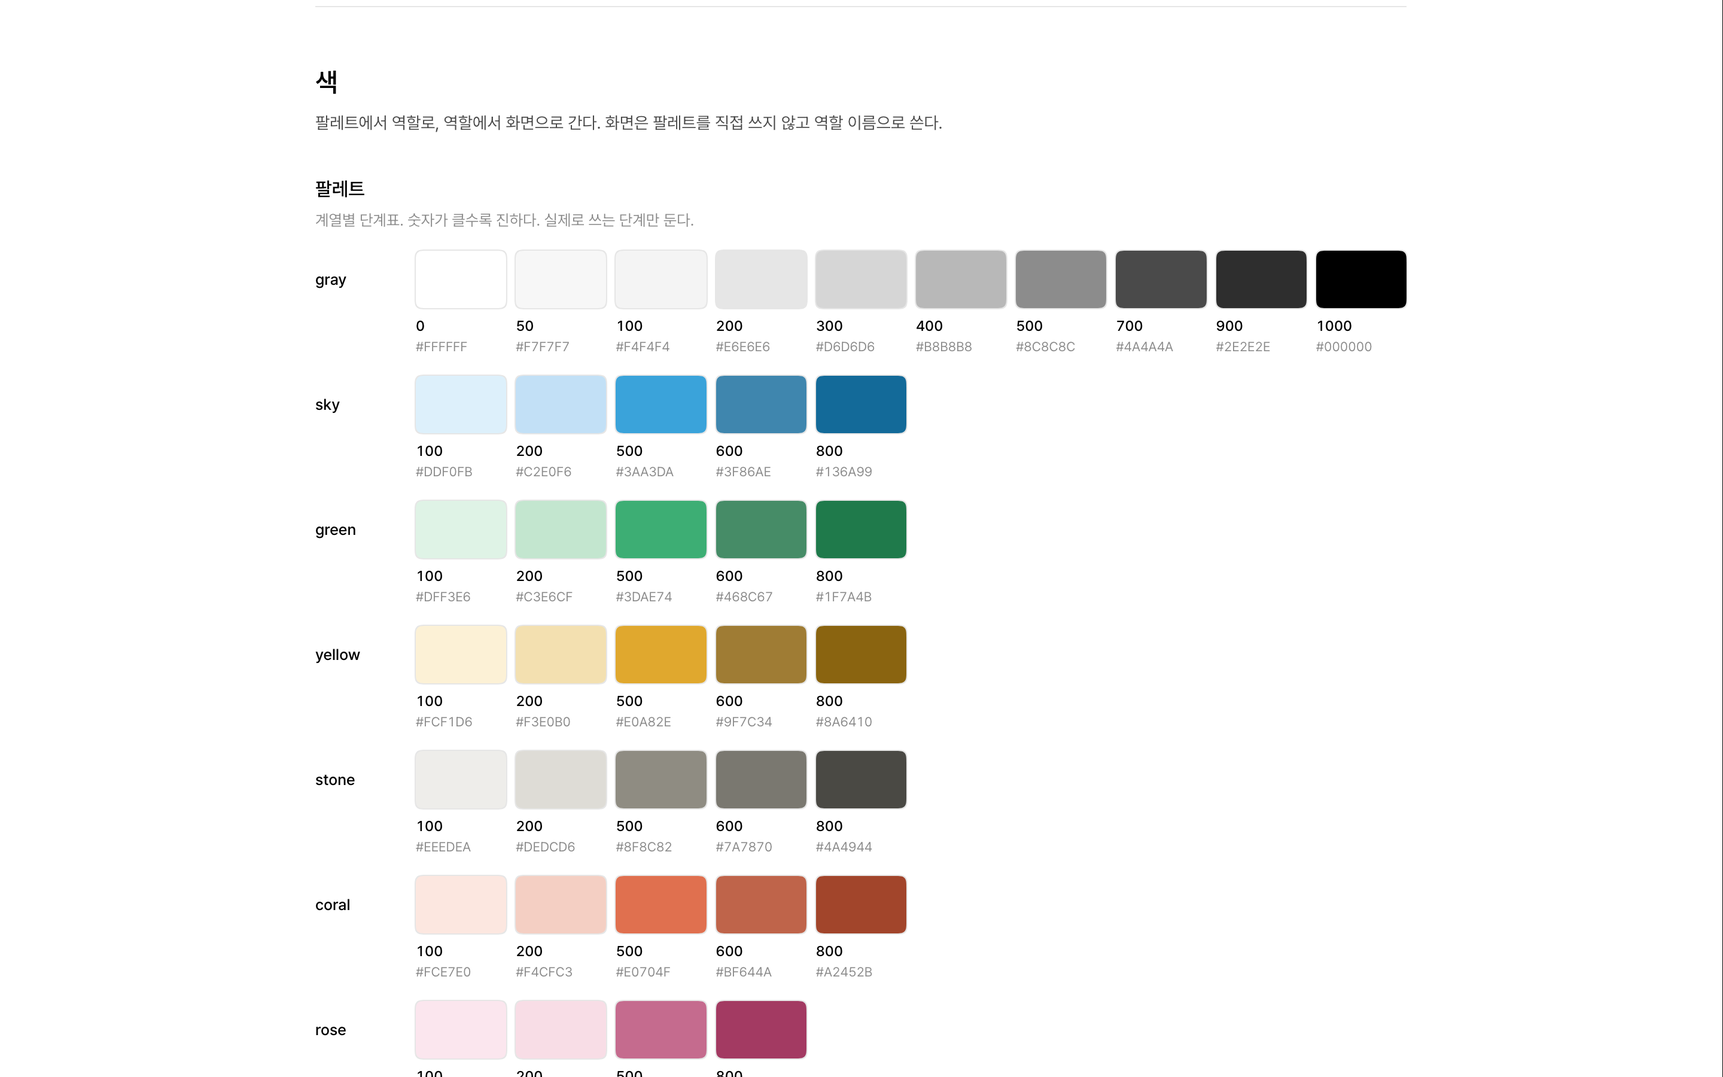
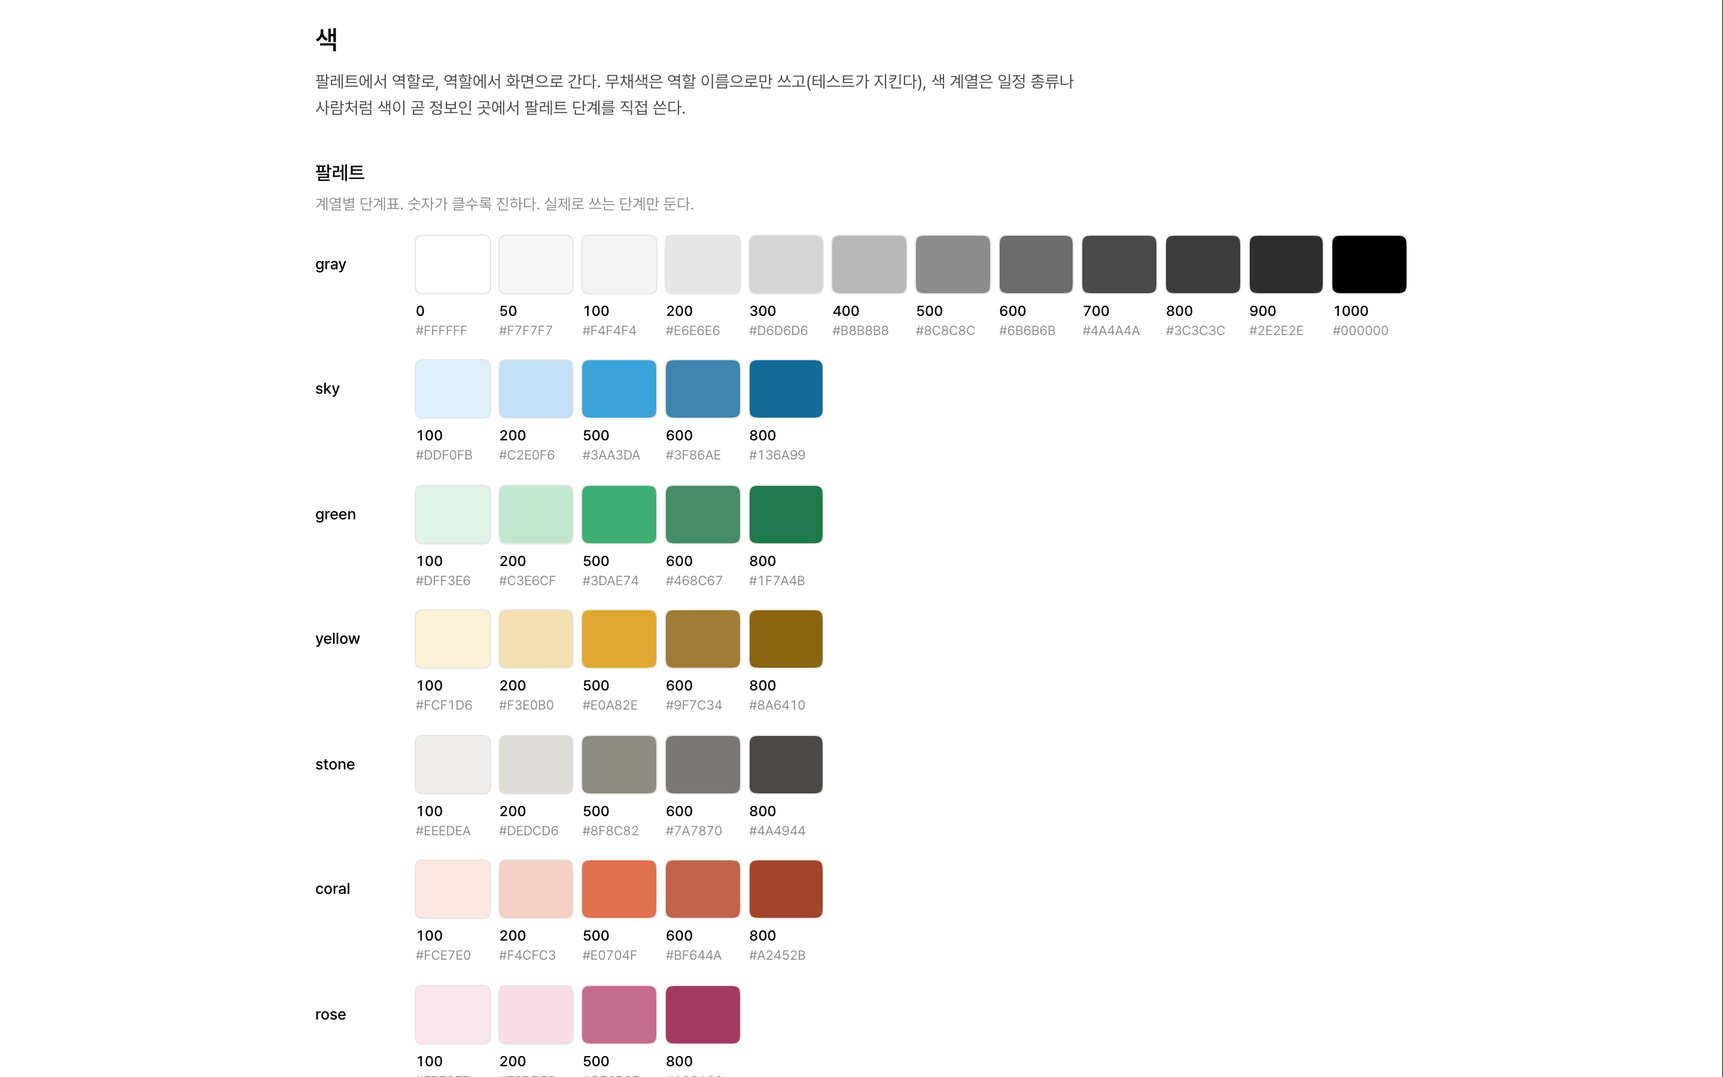
docs: 디자인 시스템 절을 측정값과 엄격 대조 결과로 고쳐 쓰기
전후 수치를 측정 스크립트의 출력으로 바꾸고, 화면이 달라진 정도를 화면별 표로 적는다. 옮기지 않은 버튼과 만들지 않은 컴포넌트, 보조 글자의 대비 미달, SEED에서 따른 이름 관례를 그대로 적는다. 설계 문서에는 구현 결과와 다른 점을 덧붙인다.

diff --git a/README.md b/README.md
@@ -182,39 +182,41 @@ npm run dev        # http://localhost:3000
 </p>
 
 화면을 먼저 만들고 디자인 시스템은 나중에 올렸습니다. 그때 화면의 값은 흩어져 있었습니다.
-같은 검정 주 버튼이 클래스 조합 12종으로 쓰였고, 글자 크기는 10.5px, 11.5px 같은 값을 포함해 18종이었습니다.
+검정 면을 쓰는 누르는 요소가 클래스 조합 12종으로 흩어져 있었고, 글자 크기는 10.5px, 11.5px 같은 값을 포함해 18종이었습니다.
 값과 변형을 한 곳에서 정의하고, 화면은 그것을 고르기만 하도록 옮겼습니다.
 
 ### 원칙
 
 - **명세가 원천입니다.** 색, 글자, 모서리, 그림자, 모션의 값은 `src/shared/tokens/spec` 한 곳에만 있습니다.
   Tailwind 테마 CSS는 거기서 생성하고(`npm run tokens:generate`), 생성물은 직접 고치지 않습니다.
-- **검정이 주 행동입니다.** 화면에서 가장 진한 것이 지금 누를 것입니다.
+- **검정은 주 행동과 선택에만 씁니다.** 화면에서 가장 진한 것은 지금 누를 것이거나 지금 고른 것입니다.
 - **색은 정보에만 씁니다.** 일정 종류, 사람, 경고, 새 알림처럼 구분해야 할 것에만 색이 있습니다. 버튼과 선택은 무채색입니다.
 - **변형은 고르는 것입니다.** 버튼의 종류와 크기는 조합표에 정의돼 있고, 화면은 `variant`와 `size`만 고릅니다.
-- **지켜야 할 것은 검사합니다.** 대비, 생성물의 최신 여부, 화면 코드의 임의값을 테스트가 봅니다.
+- **지켜야 할 것은 검사합니다.** 대비, 생성물의 최신 여부, 화면 코드의 임의값과 테마에 없는 클래스를 테스트가 봅니다.
 
 ### 토큰
 
-색은 세 층으로 쌓습니다. 화면은 팔레트를 직접 쓰지 않고 역할 이름으로 씁니다.
+색은 세 층으로 쌓습니다. 무채색은 화면에서 역할 이름으로만 쓰고, 테스트가 이를 지킵니다.
+색 계열은 색이 곧 정보인 곳에서 팔레트 단계를 직접 씁니다.
 
 | 층 | 예 | 화면에서 쓰는 모습 |
 | --- | --- | --- |
-| 팔레트 | `gray-1000`, `sky-100`, `coral-800` | 쓰지 않음 |
-| 역할 | 글자 `strong · default · muted`, 바탕 `page · subtle · ink`, 선 `default · strong` | `text-strong`, `bg-ink`, `border-default` |
+| 팔레트 | `gray-1000`, `sky-100`, `coral-800` | 무채색은 직접 쓰지 않음. 색 계열은 안내 배지, 제안 카드, 완료·스캔 화면의 배경에서 직접 (`bg-sky-100`) |
+| 역할 | 글자 `strong · default · muted · faint`, 바탕 `page · faint · subtle · ink`, 선 `default · strong · page` | `text-strong`, `bg-ink`, `ring-page` |
 | 일정 종류, 사람 | 회의는 하늘, 집중은 초록, 점심은 노랑, 휴가는 스톤, 외근은 코랄 | `KIND_COLOR.meeting.bg` |
 
 그 밖의 토큰은 다음과 같습니다.
 
 | 토큰 | 단계 |
 | --- | --- |
-| 글자 | 크기와 줄 높이를 묶은 13단계 (`text-caption` … `text-display`) |
+| 글자 | 크기와 줄 높이를 묶은 13단계 (`text-micro` … `text-display`) |
 | 굵기 | 7단계. 단계를 통째로 한 칸씩 가볍게 잡았습니다(300~620) |
 | 모서리 | 6단계와 원형 (`rounded-r1` … `rounded-r6`) |
 | 그림자 | 4단계 (`shadow-s1` … `shadow-s4`) |
-| 모션 | 스프링 프리셋 3개, 가속 곡선 5개 |
+| 모션 | 스프링 프리셋 4개(자리 이동, 튀어나옴, 팝오버, 바닥 시트), 가속 곡선 5개 |
 
 Tailwind의 기본 색, 모서리, 그림자, 글자 단계는 지웠습니다. 명세에 없는 `text-sm`이나 `bg-white` 같은 클래스는 아무 스타일도 내지 않습니다.
+오류 없이 조용히 사라지기 때문에, 테스트가 화면 코드의 클래스를 Tailwind로 실제로 컴파일해 결과가 없는 클래스를 잡습니다.
 
 <p>
   <img src="docs/readme/design-system-color.png" width="100%" alt="디자인 시스템 문서의 색 절. 팔레트 단계표와 역할 색" />
@@ -234,38 +236,97 @@ Tailwind의 기본 색, 모서리, 그림자, 글자 단계는 지웠습니다. 
 | `Badge` | 색조 `rec · info · warn · ok` × 크기 `sm · md` |
 | `SelectRow` | 목록에서 하나를 고르는 행. 오른쪽 체크가 선택을 말합니다 |
 
+전부 옮기지는 않았습니다. 직접 쓴 `button` 요소는 55곳에서 32곳으로 줄었습니다. 26곳이 `ActionButton`, `IconButton`, `SelectRow`로 옮겨졌고,
+남은 32곳 중 4곳은 컴포넌트 자신의 구현이라 화면에 직접 쓴 것은 28곳입니다. 달력의 날짜 칸, 일정 블록과 제안 카드, 필드를 여는 줄처럼 모양이 한 곳에만 있는 것들입니다.
+`ghost` 변형은 정의만 있고 아직 화면에서 쓰지 않습니다. 글자만 있는 보조 버튼 두 곳과 참석자 선택의 닫기 버튼은
+글자 색이나 크기가 변형과 달라, 화면을 바꾸지 않으려고 그대로 두었습니다.
+설계에 적었던 입력 필드, 토스트, 안내 문구는 컴포넌트로 만들지 않았습니다. 입력은 두 곳의 모양이 서로 다르고
+나머지는 쓰는 곳이 하나씩이라, 만들면 시스템이 화면보다 커집니다. 바텀시트와 날짜·선택 필드는 토큰만 옮겼습니다.
+
 ### 당근 SEED Design에서 가져온 것
 
-구조와 원칙을 가져왔고, 값과 이름은 이 제품의 것으로 지었습니다.
+구조와 원칙을 가져왔습니다. 토큰의 분류(palette → fg · bg · stroke), 단계에 번호를 붙이는 이름(`r1`…, `s1`…),
+`-pressed`나 `-weak` 같은 상태 꼬리말은 SEED의 관례를 따랐습니다. 역할 이름(`strong`, `ink`, `page` …)과 값은 이 제품에 맞춰 지었습니다.
 
 | SEED | our calendar |
 | --- | --- |
 | YAML 명세에서 여러 언어로 생성 | TypeScript 명세에서 Tailwind 테마 CSS를 생성. 언어가 하나라 전용 문법이 필요 없습니다 |
-| 팔레트 → 시맨틱 → 컴포넌트 3계층 토큰 | 같은 3계층. 이름은 이 제품의 역할로 지었습니다 |
+| 팔레트 → 역할(fg · bg · stroke) → 컴포넌트 토큰 | 팔레트 → 역할은 같은 분류. 컴포넌트 층은 토큰 대신 조합표가 맡습니다 |
+| 단계 이름 `r1 … r6`, `s1 … s3` | 같은 방식의 이름, 다른 값 (SEED의 `r1`은 4px, 여기는 6px) |
 | 레시피: base · variants · compoundVariants | 같은 모양의 작은 `recipe()` 함수를 직접 두었습니다 |
 | 생성물은 직접 고치지 않는다 | 같은 규칙. 생성물이 명세와 어긋나면 테스트가 실패합니다 |
 | 시각 회귀 검사 | 헤드리스 캡처와 픽셀 대조 스크립트 (`npm run visual:capture`, `visual:compare`) |
 
 ### 전후 수치
 
-디자인 시스템을 올리기 전과 후를 같은 스크립트로 쟀습니다(2026-11-20).
+디자인 시스템을 올리기 전과 후를 같은 스크립트로 쟀습니다(2026-11-20). `src`의 ts·tsx에서 테스트, 토큰 명세, 문서 화면을 뺀
+나머지를 정규식으로 셉니다. `node scripts/measure-design-values.mjs <이전 src> src`로 다시 잴 수 있습니다.
 
 | 항목 | 이전 | 이후 |
 | --- | --- | --- |
-| 글자 크기 | 임의값 18종 | 13단계 |
-| 줄 높이 | 임의값 8종 | 4단계 |
-| 모서리 | 13종 | 6단계와 원형 |
-| 그림자 | 임의값 12종 | 4단계 |
-| 코드에 직접 쓴 색 | 66종, 110곳 | 0곳 (아바타 일러스트 제외) |
-| 검정 주 버튼의 클래스 조합 | 12종 | 컴포넌트 변형 1개 |
-| 스프링 설정 | 6종 | 프리셋 3개 |
-| 토큰 | 29개 | 127개 |
+| 글자 크기 임의값 | 18종, 159곳 | 0종, 0곳 |
+| 글자 크기 단계 | 0종, 0곳 | 13종, 140곳 |
+| 줄 높이 임의값 | 8종, 43곳 | 0종, 0곳 |
+| 줄 높이 단계 | 0종, 0곳 | 4종, 38곳 |
+| 자간 임의값 | 2종, 15곳 | 0종, 0곳 |
+| 모서리 값 | 12종, 124곳 | 8종, 97곳 |
+| 그림자 임의값 | 12종, 18곳 | 0종, 0곳 |
+| 그림자 단계 | 0종, 0곳 | 4종, 18곳 |
+| 코드에 직접 쓴 색(#RRGGBB) | 66종, 110곳 | 17종, 17곳 |
+| 그중 아바타 일러스트 밖 | 51종, 93곳 | 0종, 0곳 |
+| button 요소 (직접 쓴 것) | 55곳 | 32곳 |
+| 컴포넌트 사용 | ActionButton 0, IconButton 0, SelectRow 0, Badge 1, Chip 3 | ActionButton 14, IconButton 10, SelectRow 2, Badge 5, Chip 3 |
+| 누르는 요소의 클래스 조합 | 35종 | 20종 |
+| 그중 검정 주 버튼 | 12종 | 4종 |
+| 스프링 직접 설정 | 6종, 17곳 | 0종, 0곳 |
+| 스프링 프리셋 사용 | 없음 | 4개, 17곳 |
+| 테마 CSS 변수 | 29개 | 138개 |
 
-옮기는 동안 화면 14장(7개 장면 × PC·모바일)을 전후로 픽셀 대조했습니다. 가장 많이 달라진 화면이 1.25%였고,
-원인은 글자 크기를 단계에 맞추며 생긴 0.5~1px 차이와 1~2px의 세로 밀림이었습니다. 줄바꿈이 바뀌거나 사라진 요소는 없었습니다.
+읽을 때 알아 둘 것이 셋 있습니다. 모서리 8종은 6단계와 원형, 상속(`rounded-[inherit]`)입니다.
+이후의 직접 쓴 색 17곳은 모두 아바타 일러스트의 피부·머리 색이고, 전역 CSS에도 직접 쓴 색은 없습니다.
+"검정 주 버튼" 줄은 검정 면과 흰 글자를 함께 쓰는 클래스 조합을 센 것이라, 이후의 4종은 버튼이 아니라 선택된 날짜 칸과 시간 칩입니다.
+직접 쓴 `button` 32곳 중 4곳은 컴포넌트 자신의 구현입니다.
 
-이 과정에서 검사가 실제로 잡아낸 것이 둘 있습니다. 대비 검사는 일정 블록의 시간 글자 네 색이 3:1에 못 미치는 것을 찾아 색을 조정하게 했고,
-전후 측정은 그림자 18곳이 일괄 치환 중에 한 단계로 잘못 묶인 것을 드러냈습니다. 뒤의 것은 픽셀 대조가 놓친 차이였습니다.
+### 화면이 달라진 정도
+
+옮기는 일은 화면을 바꾸지 않는 것이 조건이었습니다. 이전 빌드와 지금 빌드에서 화면 18장(9개 장면 × PC 1440px·모바일 390px)의
+첫 화면을 찍어 픽셀로 대조했습니다. 색 차이 허용치 0.02에 글자 가장자리의 섞인 픽셀까지 세는 엄격한 기준이고,
+같은 빌드를 두 번 찍으면 18장 모두 0.00%입니다.
+
+| 화면 | PC | 모바일 |
+| --- | --- | --- |
+| 홈 | 1.40% | 0.16% |
+| 일정 만들기 | 0.56% | 3.57% |
+| 시간 찾기 | 0.57% | 0.17% |
+| 시간 찾기 (아쉬운 후보) | 2.30% | 0.06% |
+| 시간 찾기 (후보 없음) | 0.01% | 0.03% |
+| 확정 | 0.00% | 0.01% |
+| 완료 | 0.81% | 14.68% |
+| 초대 | 0.84% | 2.55% |
+| 알림 | 0.03% | 0.10% |
+
+달라진 원인은 네 가지입니다.
+
+- 글자 크기를 단계에 맞추며 생긴 0.5~1px 차이. 일정 만들기의 모바일 화면은 제목 입력란이 1.5px 높아져 그 아래가 함께 밀렸습니다.
+- 색을 단계에 맞춘 곳. 일정 블록의 시간 글자, 여러 사람의 점심을 묶은 회색 블록(`#A4A4A4` → `#B8B8B8`)이 그렇습니다.
+- 버튼을 컴포넌트로 바꾸며 생긴 몇 px의 크기 차이. 참석 토글이 4px 넓어졌고, 보조 버튼 두 곳의 글자가 14px에서 15px이 됐습니다.
+- 완료 화면의 번진 배경색. 팔레트의 가장 가까운 단계로 옮겨 조금 옅어졌습니다. 모바일에서는 넓은 면이
+  채널당 평균 5, 최대 12(255 기준)만큼 달라 비율이 크게 나옵니다.
+
+줄 수나 말줄임이 바뀐 글자는 없습니다(독립 검토에서 360·390·1440px의 글자 요소를 전부 대조).
+이 대조가 보지 못하는 것도 있습니다. 열린 시트·팝오버·토스트, 호버와 눌림 상태, 움직임을 줄였을 때 건너뛰는 스캔 화면,
+첫 화면 아래로 스크롤해야 보이는 부분은 찍지 않습니다. 날짜가 오늘을 기준으로 그려져서, 기준과 비교는 같은 날 찍어야 합니다.
+
+### 검사와 검토가 실제로 잡아낸 것
+
+- **대비 검사**가 일정 블록의 시간 글자 네 색이 3:1에 못 미치는 것을 찾아 색을 조정하게 했습니다.
+- **전후 측정**이 그림자 18곳이 일괄 치환 중에 한 단계로 잘못 묶인 것을 드러냈습니다. 픽셀 대조는 놓친 차이였습니다.
+- **독립 검토**(코드를 쓰지 않은 검토자의 전체 검토)가 처음의 픽셀 대조 기준이 느슨하다는 것을 찾았습니다.
+  허용치 0.1에 가장자리 픽셀을 빼는 기준은 완료 화면의 배경색이 진해진 것을 0%로 냈습니다. 기준을 조이고 완료·알림 화면을 목록에 넣었습니다.
+- 같은 검토가 바텀시트의 스프링을 프리셋으로 묶으면서 시트가 7~10px 넘쳤다가 돌아오게 된 것을 찾았습니다.
+  넘치지 않는 시트 전용 프리셋을 나누고, 감쇠비 0.9 이상을 테스트로 고정했습니다.
+- 임의값 검사는 처음에 정규식이었고, `text-sm` 같은 죽은 클래스와 `bg-[#fff]` 같은 우회를 통과시켰습니다.
+  Tailwind로 실제로 컴파일하는 검사로 바꿨습니다.
 
 ## 구조
 
@@ -312,11 +373,12 @@ src/
 
 | 검사 | 명령 | 보는 것 |
 | --- | --- | --- |
-| 단위 테스트 | `npm test` | 테스트 415개 (파일 37개) |
+| 단위 테스트 | `npm test` | 테스트 481개 (파일 39개) |
 | 타입 | `npm run typecheck` | `tsc --noEmit` |
 | 구조 | `npm run lint:fsd` | FSD 공식 린터(steiger)로 레이어 방향과 공개 API 검사 |
 | 빌드 | `npm run build` | 프로덕션 빌드 |
-| 화면 대조 | `npm run visual:capture -- <이름>`, `npm run visual:compare -- <기준> <비교>` | 화면 14장을 캡처해 픽셀 단위로 대조 |
+| 화면 대조 | `npm run visual:capture -- <이름>`, `npm run visual:compare -- <기준> <비교>` | 화면 18장을 캡처해 픽셀 단위로 대조 |
+| 값 측정 | `node scripts/measure-design-values.mjs src` | 화면 코드에 흩어진 값의 종류와 곳 수 |
 
 테스트는 화면을 그리지 않고 도는 순수 함수에 모여 있습니다.
 
@@ -325,8 +387,8 @@ src/
 | 추천 엔진 (점수, 순위, 부분 참석, 조건 완화, 패턴 읽기) | 123개 |
 | 일정 잡기 흐름 (상태 머신, 주소 동기화, 후보 파생, 데모 데이터의 불변식) | 100개 |
 | 화면의 계산 로직 (그리드 배치, 초대 문장, 완료 화면 정리 등) | 77개 |
-| 디자인 시스템 (대비, 생성물 일치, 임의값 금지, 조합표, 컴포넌트 변형) | 72개 |
-| 알림, 엔티티, 시간 계산 등 | 43개 |
+| 디자인 시스템 (대비, 생성물 일치, 임의값과 죽은 클래스 금지, 스프링, 조합표, 컴포넌트 변형) | 136개 |
+| 알림, 엔티티, 시간 계산 등 | 45개 |
 
 데모 데이터도 테스트 대상입니다. "기본 여섯 명이 다음 주에 한 시간을 잡으면 수요일 10시가 1위여야 한다"
 같은 장면을 테스트로 고정해, 점수 규칙을 고쳤을 때 의도한 장면이 깨지면 바로 드러납니다.
@@ -353,7 +415,7 @@ src/
 
 **AI의 결과를 믿는 방법**
 
-- 지켜야 할 판단은 말이 아니라 테스트로 고정했습니다. 규칙을 고치면 415개 테스트가 다시 답합니다.
+- 지켜야 할 판단은 말이 아니라 테스트로 고정했습니다. 규칙을 고치면 481개 테스트가 다시 답합니다.
 - 구조는 사람이 눈으로 보지 않고 린터가 검사합니다.
 - 디자인 값은 테스트가 지킵니다. 화면 코드에 색이나 글자 크기를 직접 적으면 실패합니다.
 - 화면은 고칠 때마다 캡처해 직접 확인하고, 구조를 크게 바꿀 때는 전후를 픽셀 단위로 대조했습니다.
@@ -368,6 +430,9 @@ src/
 - **저장하지 않습니다.** 만든 일정은 세션에만 남아 새로고침하면 사라집니다. 로그인과 서버가 없습니다.
 - **실제 캘린더와 연결되지 않습니다.**
 - **점수는 고정값입니다.** 조직마다 다를 수 있는 회의 문화를 반영해 조정하는 기능은 없습니다.
+- **보조 글자의 대비가 WCAG AA에 못 미칩니다.** 보조 글자(`#8C8C8C`)는 흰 바탕에서 3.36:1, 옅은 바탕(`#F4F4F4`)에서 3.06:1이고,
+  옅은 안내 글자(`#B8B8B8`)는 1.98:1입니다. AA는 작은 글자에 4.5:1을 요구합니다. 화면을 바꾸지 않는 조건으로 디자인 시스템을 올려서
+  값을 그대로 두었고, 문서 화면의 대비표에 미달로 적어 두었습니다.
 
 다음에 할 일은 순서대로 저장과 로그인, 실제 캘린더 연동, 점수 조정입니다.
 "혼자일 때는 내 캘린더"가 말로만 남지 않으려면 저장이 먼저입니다.

diff --git a/docs/superpowers/specs/2026-11-20-design-system-design.md b/docs/superpowers/specs/2026-11-20-design-system-design.md
@@ -102,3 +102,54 @@
 - 조합표 함수의 내부 구현
 - 화면을 옮기는 순서
 - 문서 화면의 배치
+
+## 구현 결과와 다른 점 (2026-11-20 추가)
+
+승인된 본문은 고치지 않는다. 구현과 최종 검토를 거치며 본문과 달라진 것을 여기에 적는다.
+
+### 수치
+
+본문의 "지금 상태" 표는 처음 잰 값이다. 측정 스크립트를 저장소에 넣고(`scripts/measure-design-values.mjs`) 같은 트리를 다시 잰 결과는
+모서리가 12종(본문은 13종. 방향 접두사 `rounded-t`를 값 한 종으로 세던 것을 바로잡았다)이고 나머지 항목은 본문과 같다.
+이후 수치는 README의 "전후 수치" 절에 있다.
+
+### 컴포넌트
+
+본문의 아홉 가지 중 버튼, 아이콘 버튼, 칩, 배지, 선택 행 다섯을 만들었다.
+
+- 입력 필드, 토스트, 안내 문구는 만들지 않았다. 입력은 두 곳의 모양이 서로 다르고 나머지는 쓰는 곳이 하나씩이라,
+  만들면 본문의 실패 조건("시스템이 화면보다 커진다")에 걸린다.
+- 바텀시트와 날짜·선택 필드는 토큰만 옮겼고 조합표는 쓰지 않는다.
+- 직접 쓴 `button` 요소는 55곳에서 32곳이 됐다(그중 4곳은 컴포넌트 자신의 구현). 날짜 칸, 일정 블록처럼 모양이 한 곳에만 있는 것은 남겼다.
+- `ghost` 변형은 정의만 있고 화면에서 쓰지 않는다. 옮길 후보였던 글자 버튼 두 곳과 닫기 버튼은 글자 색과 크기가 변형과 달라,
+  화면을 바꾸지 않으려고 그대로 두었다.
+
+### 대비
+
+본문은 "명세의 글자·바탕 조합이 대비 4.5:1 이상"을 검증 항목으로 적었다. 구현은 이 기준을 전부 지키지 못한다.
+
+- 본문 글자(강조, 본문, 검정 면 위 글자, 경고, 일정 제목)는 4.5:1 이상이다.
+- 보조 글자는 이 제품의 기준을 3:1로 두었다. 흰 바탕 3.36:1, 옅은 바탕 3.06:1로, 작은 글자에 4.5:1을 요구하는 WCAG AA에는 못 미친다.
+- 옅은 안내 글자는 1.98:1로 3:1에도 못 미친다. 대비표에 미달로 적는다.
+- 값을 고치지 않은 이유: 이번 작업의 조건이 화면을 바꾸지 않는 것이고, 회색을 어둡게 하는 것은 화면 전체의 인상을 바꾸는 디자인 결정이다.
+- 일정 블록의 시간 글자 네 색은 3:1에 못 미쳐 어둡게 조정했다. 본문의 "화면 구성과 동작의 변경을 하지 않는다"와 다른 결정이다.
+
+### 화면이 달라진 정도
+
+본문의 실패 조건은 "화면이 의도하지 않게 달라진다"이다. 이전 빌드와 최종 빌드를 엄격한 기준(허용치 0.02, 가장자리 픽셀 포함)으로
+대조한 결과 18장 중 16장이 2.6% 이하이고, 일정 만들기 모바일 3.57%, 완료 모바일 14.68%가 그보다 크다.
+완료 화면은 배경의 번진 색을 팔레트의 가장 가까운 단계로 옮겨 조금 옅어진 것이다(채널당 평균 5, 최대 12).
+원래 값을 그대로 두려면 팔레트에 단계를 더해야 해서, 가까운 단계를 쓰는 쪽을 골랐다.
+열린 시트·팝오버, 호버 상태, 스캔 화면은 대조하지 못했다.
+
+### 토큰 이름
+
+본문의 실패 조건은 "토큰 이름이 SEED의 복사본이 된다"이다. 분류(palette → fg · bg · stroke)와 단계에 번호를 붙이는 방식(`r1`…, `s1`…),
+`-pressed` · `-weak` 꼬리말은 SEED와 같다. 역할 이름(`strong`, `default`, `ink`, `page` …)과 값은 다르다.
+SEED 저장소의 `packages/rootage`(radius, shadow, color)와 직접 대조해 확인했다.
+
+### 그 밖에
+
+- 스프링 프리셋은 넷이다(자리 이동, 튀어나옴, 팝오버, 바닥 시트). 바닥 시트는 넘치지 않아야 해서 따로 두었다.
+- 무채색은 역할 이름으로만 쓰도록 테스트로 강제한다. 색 계열은 색이 곧 정보인 곳에서 팔레트 단계를 직접 쓴다.
+- 임의값 검사는 정규식이 아니라 Tailwind로 실제 컴파일하는 방식이다. 테마에 없어 아무 스타일도 내지 않는 클래스까지 잡는다.
